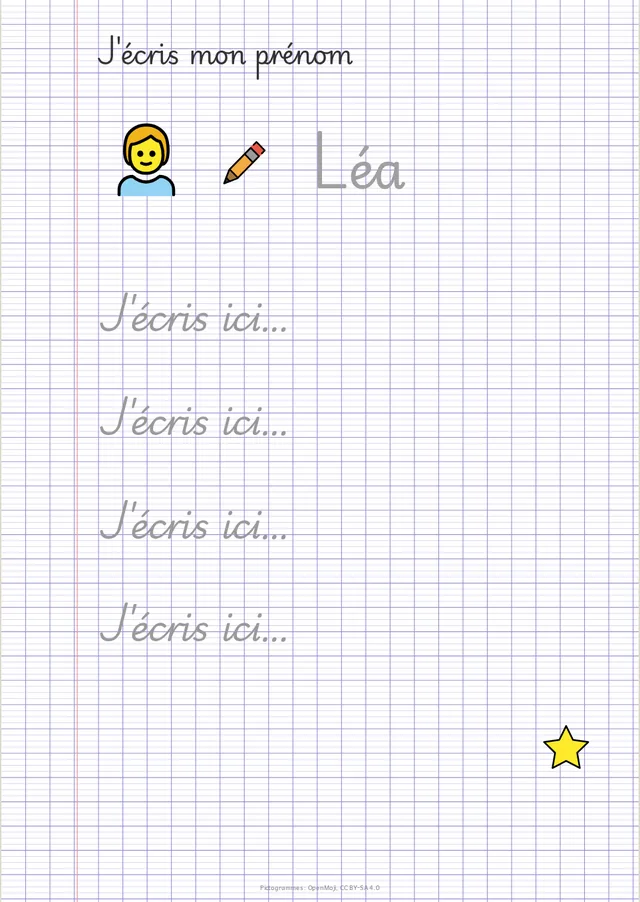
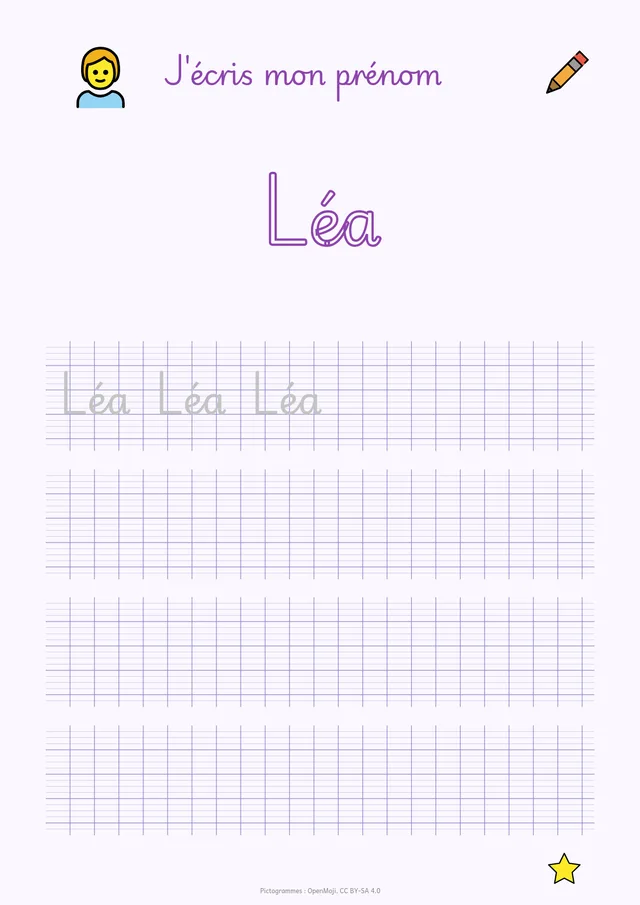
docs: help, what's new 0.8, README and site for the new features and examples

Changed region(s): [[0.0, 0.0, 1.0, 1.0]]

diff --git a/ui/src/lib/tips.ts b/ui/src/lib/tips.ts
@@ -15,12 +15,15 @@ export const TIPS: Tip[] = [
   { id: "drop-photo", theme: "Photos", icon: "🖼", title: "Placer une photo", text: "Importez vos photos dans le tiroir Photos, puis glissez-les sur une zone de la page." },
   { id: "crop", theme: "Photos", icon: "✂", title: "Recadrer", text: "Double-cliquez sur une photo, puis faites-la glisser dans son cadre ; la molette zoome. Entrée ou un clic ailleurs valide." },
   { id: "photo-style", theme: "Photos", icon: "🟦", title: "Coins, bordure, ombre", text: "Sélectionnez une photo : la barre flottante arrondit ses coins, ajoute une bordure (pleine, en tirets ou en pointillés) ou une ombre." },
+  { id: "mirror", theme: "Photos", icon: "⇋", title: "Miroir", text: "Le bouton « Miroir » de la barre de la photo la retourne de gauche à droite : un enfant qui regarde vers le texte, par exemple." },
   { id: "blur-faces", theme: "Photos", icon: "◍", title: "Flouter des visages", text: "Sélectionnez une photo, puis « Flouter » : cliquez sur les visages des enfants sans autorisation photo, ou tracez une zone en glissant. Le repérage automatique (un petit modèle d'intelligence artificielle intégré, hors ligne) n'est utilisé qu'avec votre accord, demandé la première fois, et peut être coupé. La photo d'origine n'est plus enregistrée dans le document." },
   { id: "caption", theme: "Photos", icon: "🏷", title: "Légende", text: "Le bouton « Légende » ajoute un texte sous la photo. Sur une photo libre, la légende est groupée avec elle et la suit quand on la déplace." },
   { id: "library", theme: "Photos", icon: "📚", title: "Photothèque", text: "Les photos importées mais pas encore placées restent dans le tiroir Photos. À la réouverture du document, elles reviennent si leurs fichiers sont toujours sur l'ordinateur." },
   { id: "write", theme: "Texte", icon: "✏", title: "Écrire", text: "Double-cliquez dans un texte pour écrire. Échap ou un clic ailleurs termine." },
   { id: "fonts-mix", theme: "Texte", icon: "🔤", title: "Plusieurs polices dans un texte", text: "Pendant l'écriture, sélectionnez un mot et choisissez une police : seul ce mot change. Pratique pour un prénom en cursive et en script." },
   { id: "trace", theme: "Texte", icon: "✍", title: "Lettres à repasser", text: "Tiroir Texte : « À repasser (gris clair) » ou « Lettres creuses », en cursive. Le bouton « A » creux de la barre flottante rend creuses les lettres de n'importe quel texte." },
+  { id: "writing-lines", theme: "Texte", icon: "📝", title: "Lignes d'écriture", text: "Tiroir Texte > « Lignes d'écriture » : un cadre Seyès, à lignes ou à petits carreaux, pour écrire à la main. Le réglage « Cadre » d'un texte en ajoute aussi sous un modèle à repasser." },
+  { id: "styles", theme: "Texte", icon: "🅰", title: "Styles de texte", text: "Le bouton « Style » de la barre d'écriture donne à un texte l'allure Titre, Consigne, Texte ou Prénom. Modifiez un texte, puis « Mettre à jour » : tous les textes de ce style changent avec lui. « Nouveau style… » garde l'allure d'un texte pour la réutiliser." },
   { id: "valign", theme: "Texte", icon: "↕", title: "En haut, au milieu, en bas", text: "Le menu d'alignement de la barre flottante place aussi le texte en haut, au milieu ou en bas de son cadre." },
   { id: "label", theme: "Texte", icon: "🪧", title: "Étiquettes", text: "Le bouton « Cadre » donne au texte un fond, une bordure, des coins arrondis, ou une image de fond." },
   { id: "system-fonts", theme: "Texte", icon: "💻", title: "Polices de l'ordinateur", text: "Le choix de police propose aussi les polices installées sur l'ordinateur, avec une recherche." },
@@ -31,14 +34,20 @@ export const TIPS: Tip[] = [
   { id: "lock", theme: "Mise en page", icon: "🔒", title: "Verrouiller", text: "Un élément verrouillé (clic droit ou Réglages) ne bouge plus par mégarde." },
   { id: "table", theme: "Mise en page", icon: "▦", title: "Tableaux", text: "Tiroir Texte > « Ajouter un tableau ». Double-cliquez dans une case pour écrire ; la barre sous la case ajoute ou retire des lignes et des colonnes, fusionne des cases et y met un picto ou une photo." },
   { id: "cut-marks", theme: "Mise en page", icon: "✂", title: "Repères de découpe", text: "Sélectionnez une ou plusieurs étiquettes, puis « Découpe » dans la barre flottante : traits aux coins ou pointillés avec des ciseaux, autour de chaque bloc. « Aucun repère » les retire." },
+  { id: "repeat", theme: "Mise en page", icon: "⊞", title: "Répéter un bloc", text: "Sélectionnez une étiquette ou une carte, puis « Répéter » : choisissez les colonnes et les lignes, ou « Remplir la page ». Chaque exemplaire garde ses zones à remplir avec la classe." },
   { id: "frieze", theme: "Mise en page", icon: "🌸", title: "Frise autour d'un bloc", text: "Choisissez des images dans Décors, sélectionnez une photo ou un texte, puis « Frise » : les images l'entourent." },
   { id: "templates", theme: "Pages et modèles", icon: "▦", title: "Partir d'un modèle", text: "Le tiroir Modèles ajoute une page toute prête : grille de photos, récit, étiquettes, affiche." },
   { id: "save-template", theme: "Pages et modèles", icon: "💾", title: "Vos propres modèles", text: "Bouton « Modèle » en haut, puis « Enregistrer comme modèle » : la mise en page devient un modèle à réutiliser ou à partager. Les photos et les textes écrits ne sont pas gardés." },
   { id: "background", theme: "Pages et modèles", icon: "📒", title: "Fond de page", text: "Le bouton « Fond » de la bande des pages donne une couleur, des lignes Seyès, des petits carreaux ou du papier kraft." },
   { id: "landscape", theme: "Pages et modèles", icon: "🔄", title: "Paysage", text: "Le bouton « Paysage » de la bande des pages tourne la page courante." },
+  { id: "formats", theme: "Pages et modèles", icon: "📐", title: "A5, A4, A3", text: "Le choix du format, dans la bande des pages, agrandit ou réduit la page avec son contenu. Une affiche A3 s'imprime aussi en deux feuilles A4 à coller (Imprimer / Exporter)." },
+  { id: "spread", theme: "Pages et modèles", icon: "📖", title: "Pages en vis-à-vis", text: "« Vis-à-vis » montre les pages deux par deux, comme un cahier ouvert. Pour des cartes recto-verso, « Imprimer en recto-verso » place chaque verso derrière son recto." },
   { id: "class", theme: "Classe", icon: "🧒", title: "Votre classe", text: "« Ma classe » sur l'accueil (ou « Modifier la classe… » dans le tiroir Classe) : collez la liste des prénoms, puis réglez chaque élève sur sa ligne. « Ajouter les photos… » les prend toutes d'un coup, chacune pour l'enfant dont elle porte le prénom (Léa.jpg). La classe reste sur l'ordinateur, dans Documents/Cahutin/Classes." },
   { id: "class-generate", theme: "Classe", icon: "✨", title: "Une page pour chaque élève", text: "Sur une page qui attend des prénoms (modèles Étiquettes, ou le bouton « Prénom » pendant l'écriture), le bandeau bleu propose de la remplir avec votre classe. Une étiquette reçoit le même enfant dans toutes ses écritures." },
   { id: "class-consent", theme: "Classe", icon: "🦊", title: "Sans autorisation photo", text: "Une photo d'élève n'est utilisée que si la case d'autorisation est cochée. Sinon, c'est son symbole qui va dans la zone photo : donnez un symbole à chaque enfant." },
+  { id: "class-fields", theme: "Classe", icon: "🎂", title: "Âge, anniversaire, groupe", text: "Pendant l'écriture, le ▾ à côté de « Prénom » insère {nom}, {groupe}, {âge} ou {anniversaire}, remplis pour chaque élève. Les dates de naissance se saisissent sur la page « Ma classe »." },
+  { id: "class-templates", theme: "Classe", icon: "🃏", title: "Modèles pour la classe", text: "Partir d'un modèle > « Pour la classe » : memory et loto des prénoms, lettres mobiles, J'écris mon prénom, tableau des présences, affiche des anniversaires. Remplissez-les d'un clic avec votre classe." },
+  { id: "class-import", theme: "Classe", icon: "📄", title: "Importer une liste", text: "Sur la page « Ma classe », collez un tableau depuis un tableur, ou « Ouvrir un fichier… » pour un export ONDE (.csv) : prénom, nom, date de naissance, niveau et groupe sont reconnus." },
   { id: "import", theme: "Fichiers", icon: "📥", title: "Reprendre une ancienne fiche", text: "Fichier > Importer reprend une fiche Word, PDF ou Publisher (LibreOffice doit être installé) ou les pages d'un autre carnet." },
   { id: "odg", theme: "Fichiers", icon: "📤", title: "Exporter pour LibreOffice", text: "« Imprimer / Exporter » crée un fichier LibreOffice Draw où chaque texte et chaque photo restent modifiables. Les polices voyagent avec le fichier, sauf celles marquées « ⚠ export »." },
   { id: "undo", theme: "Fichiers", icon: "↶", title: "Revenir en arrière", text: "Ctrl+Z annule la dernière action, Ctrl+Y la rétablit." },

diff --git a/site/index.html b/site/index.html
@@ -62,25 +62,34 @@
 <main>
 <section aria-labelledby="exemples">
   <h2 id="exemples">Des exemples à modifier</h2>
-  <p class="intro">Cinq exemples sont fournis avec Cahutin. On en ouvre un depuis l'écran d'accueil, on remplace les photos et les textes, et on imprime. Les zones en pointillés attendent vos photos.</p>
+  <p class="intro">Onze exemples sont fournis avec Cahutin. On en ouvre un depuis l'écran d'accueil, on remplace les photos et les textes, et on imprime. Les zones en pointillés attendent vos photos.</p>
   <ul class="exemples">
     <li><img src="img/page-ferme.webp" width="640" height="902" loading="lazy" alt="Page « Notre sortie à la ferme » sur papier kraft : frise d'animaux, deux photos à déposer avec leur légende, une bulle de parole et une chèvre."><b>Sortie à la ferme</b><span>Frise d'animaux, photos légendées, bulle de parole.</span></li>
-    <li><img src="img/page-anniversaire.webp" width="640" height="902" loading="lazy" alt="Page « Joyeux anniversaire » : ballons et cadeaux en frise, gâteau entouré d'étoiles, prénom à écrire."><b>Joyeux anniversaire</b><span>Frises en haut et en bas, prénom en grand.</span></li>
+    <li><img src="img/page-anniversaire.webp" width="640" height="905" loading="lazy" alt="Page « Joyeux anniversaire » : ballons et cadeaux en frise, gâteau entouré d'étoiles, prénom et âge de l'enfant à remplir."><b>Joyeux anniversaire</b><span>Prénom et âge remplis avec la classe.</span></li>
     <li><img src="img/page-meteo.webp" width="640" height="902" loading="lazy" alt="Page « La météo de la semaine » sur petits carreaux : cinq jours avec soleil, nuage, pluie, neige et arc-en-ciel, et une flèche « Aujourd'hui »."><b>La météo de la semaine</b><span>Petits carreaux, une colonne par jour.</span></li>
-    <li><img src="img/page-prenom.webp" width="640" height="902" loading="lazy" alt="Page « J'écris mon prénom » sur papier Seyès : le prénom Léa en cursive à repasser, puis des lignes pour écrire."><b>J'écris mon prénom</b><span>Seyès, modèle en cursive à repasser.</span></li>
-    <li><img src="img/page-saisons.webp" width="640" height="902" loading="lazy" alt="Page « Les saisons » dans un cadre vert : printemps, été, automne et hiver, chacun avec une image et une ligne à compléter."><b>Les saisons</b><span>Quatre cases, une image par saison.</span></li>
+    <li><img src="img/page-prenom.webp" width="640" height="905" loading="lazy" alt="Page « J'écris mon prénom » : le prénom Léa en lettres creuses, puis des lignes Seyès, la première avec le prénom à repasser."><b>J'écris mon prénom</b><span>Lettres creuses, lignes Seyès à repasser.</span></li>
+    <li><img src="img/page-saisons.webp" width="640" height="905" loading="lazy" alt="Page « Les saisons » dans un cadre vert : printemps, été, automne et hiver, chacun avec une image et des lignes pour écrire."><b>Les saisons</b><span>Quatre cases, une image et des lignes par saison.</span></li>
+    <li><img src="img/page-emotions.webp" width="640" height="905" loading="lazy" alt="Page « Le loto des émotions » : douze cartes à découper, chacune avec un visage et son émotion."><b>Le loto des émotions</b><span>Douze cartes à découper.</span></li>
+    <li><img src="img/page-jours.webp" width="640" height="905" loading="lazy" alt="Page « J'écris les jours » : les jours de la semaine en cursive gris clair, à repasser sur des lignes Seyès."><b>J'écris les jours</b><span>Cursive à repasser sur Seyès.</span></li>
+    <li><img src="img/page-regles.webp" width="640" height="905" loading="lazy" alt="Affiche A3 « Les règles de la classe » : six règles, chacune avec son pictogramme."><b>Les règles de la classe</b><span>Une affiche A3, ou deux feuilles A4.</span></li>
+    <li><img src="img/page-sens.webp" width="640" height="905" loading="lazy" alt="Page « Mes cinq sens » : œil, oreille, nez, bouche et main, chacun avec son verbe et des lignes pour écrire."><b>Mes cinq sens</b><span>Pictogrammes et lignes d'écriture.</span></li>
+    <li><img src="img/page-porte-manteaux.webp" width="640" height="905" loading="lazy" alt="Planche d'étiquettes de porte-manteau : huit étiquettes colorées, chacune avec une photo et le prénom en capitales et en cursive à remplir."><b>Étiquettes de porte-manteau</b><span>Remplies d'un clic avec la classe.</span></li>
   </ul>
+  <figure class="colle petite">
+    <img src="img/page-semaine.webp" width="902" height="638" loading="lazy" alt="Page en paysage « Notre semaine » : un emploi du temps en tableau, les jours en couleur, un pictogramme par activité, l'accueil, les rituels, la récréation et le repas sur toute la semaine.">
+    <figcaption>Notre semaine : un emploi du temps en tableau, avec les pictogrammes des rituels.</figcaption>
+  </figure>
 </section>
 
 <section aria-labelledby="faire">
   <h2 id="faire">Ce qu'on peut faire</h2>
   <ul class="cartes">
-    <li><span class="pastille" aria-hidden="true">📐</span><h3>Partir d'un modèle</h3>Grille de photos, récit, page à compléter, étiquettes de prénoms, affiche en paysage… ou vos propres modèles, à partager entre collègues.</li>
-    <li><span class="pastille" aria-hidden="true">🧒</span><h3>Remplir avec sa classe</h3>On colle la liste des prénoms une fois. Cahutin remplit une planche d'étiquettes, un enfant par étiquette, en capitales, en script et en cursive, ou fait une page par enfant.</li>
+    <li><span class="pastille" aria-hidden="true">📐</span><h3>Partir d'un modèle</h3>Grille de photos, récit, étiquettes, affiche, et des modèles pour la classe : memory et loto des prénoms, lettres mobiles, tableau des présences, affiche des anniversaires. Ou vos propres modèles, à partager entre collègues.</li>
+    <li><span class="pastille" aria-hidden="true">🧒</span><h3>Remplir avec sa classe</h3>On colle la liste des prénoms une fois, ou on l'importe d'un tableur ou d'ONDE. Cahutin remplit ensuite une planche d'étiquettes (prénom en capitales, en script et en cursive), une page par enfant avec son âge, ou l'affiche des anniversaires.</li>
     <li><span class="pastille" aria-hidden="true">📷</span><h3>Poser ses photos</h3>On importe un dossier entier, on glisse chaque photo dans sa case, on la recadre d'un double-clic. Pour un enfant sans autorisation photo, on floute son visage d'un clic.</li>
-    <li><span class="pastille" aria-hidden="true">✏</span><h3>Écrire avec des polices d'école</h3>Cursive (Playwrite FR Moderne), écriture lisible pour les débutants (Andika), police pour les élèves dyslexiques (OpenDyslexic), lettres à repasser.</li>
-    <li><span class="pastille" aria-hidden="true">🎨</span><h3>Décorer et organiser</h3>Plus de 2 000 images à chercher en français, cadres, frises, fonds Seyès ou kraft. Des tableaux pour l'emploi du temps ou le loto, des repères de découpe.</li>
-    <li><span class="pastille" aria-hidden="true">🖨</span><h3>Imprimer ou partager</h3>Impression, PDF, ou fichier pour LibreOffice où tout reste modifiable. On peut aussi reprendre une fiche Word ou PDF existante.</li>
+    <li><span class="pastille" aria-hidden="true">✏</span><h3>Écrire avec des polices d'école</h3>Cursive (Playwrite FR Moderne), écriture lisible pour les débutants (Andika), police pour les élèves dyslexiques (OpenDyslexic). Lettres à repasser, lignes Seyès dans un cadre, styles Titre, Consigne, Prénom.</li>
+    <li><span class="pastille" aria-hidden="true">🎨</span><h3>Décorer et organiser</h3>Plus de 2 000 images à chercher en français, dont les rituels, le matériel et les émotions ; cadres, frises, fonds Seyès ou kraft. Des tableaux, un bloc répété sur toute la page, des repères de découpe.</li>
+    <li><span class="pastille" aria-hidden="true">🖨</span><h3>Imprimer ou partager</h3>A5, A4 ou A3, une affiche A3 sur deux A4, des cartes en recto-verso ; PDF, ou fichier pour LibreOffice où tout reste modifiable. On peut aussi reprendre une fiche Word ou PDF existante.</li>
   </ul>
   <figure class="colle petite">
     <img src="img/app-decors.webp" width="1600" height="1029" loading="lazy" alt="Le panneau Décors ouvert à côté de la page : recherche d'images, catégories, cadres et frises.">

diff --git a/ui/src/lib/whatsNew.ts b/ui/src/lib/whatsNew.ts
@@ -18,6 +18,36 @@ export interface Release {
 /** De la plus récente à la plus ancienne. */
 export const RELEASES: Release[] = [
   {
+    version: "0.8",
+    items: [
+      {
+        title: "Des modèles pour la classe",
+        text: "« Partir d'un modèle » > « Pour la classe » : memory et loto des prénoms, lettres mobiles, J'écris mon prénom, tableau des présences, affiche des anniversaires. Remplissez-les d'un clic avec votre classe.",
+        image: "/nouveautes/0.8/modeles-classe.webp",
+      },
+      {
+        title: "Lignes d'écriture et styles de texte",
+        text: "Tiroir Texte : des lignes Seyès, simples ou à petits carreaux, pour écrire sous un modèle à repasser. Le bouton « Style » donne l'allure Titre, Consigne ou Prénom, et la change partout d'un coup.",
+        image: "/nouveautes/0.8/lignes.webp",
+      },
+      {
+        title: "Répéter un bloc, formats A5 et A3",
+        text: "Sélectionnez une étiquette, puis « Répéter » : la page se remplit d'exemplaires prêts pour la classe. La page passe en A5 ou A3 avec son contenu, et une affiche A3 s'imprime sur deux A4.",
+        image: "/nouveautes/0.8/repeter.webp",
+      },
+      {
+        title: "Votre classe, plus complète",
+        text: "Dates de naissance, champs {âge} et {anniversaire}, et la liste importée d'un tableur ou d'un export ONDE.",
+        image: "/nouveautes/0.8/classe.webp",
+      },
+      {
+        title: "Onze exemples",
+        text: "Emploi du temps, loto des émotions, règles de la classe en A3, cinq sens, porte-manteaux : des pages prêtes à modifier, depuis l'accueil.",
+        image: "/nouveautes/0.8/exemples.webp",
+      },
+    ],
+  },
+  {
     version: "0.7",
     items: [
       {

diff --git a/site/style.css b/site/style.css
@@ -156,7 +156,7 @@ footer p { margin-bottom: calc(2 * var(--u)); }
   .barre .liens { overflow-x: auto; margin-left: 0; }
   .barre .liens a { padding: 6px 8px; font-size: 15px; }
   .marque { font-size: 24px; }
-  .exemples { grid-template-columns: repeat(5, 62vw); overflow-x: auto; scroll-snap-type: x mandatory; padding: 12px 4px 16px; }
+  .exemples { grid-template-columns: none; grid-auto-flow: column; grid-auto-columns: 62vw; overflow-x: auto; scroll-snap-type: x mandatory; padding: 12px 4px 16px; }
   .exemples li { scroll-snap-align: start; }
   .deux { grid-template-columns: 1fr; gap: 0; }
 }
@@ -185,3 +185,4 @@ body.page-accueil {
   background-position: 0 0, 0 0, 0 0;
 }
 .page-accueil .exemples li { text-align: center; }
+.colle figcaption { text-align: center; color: var(--encre-douce); font-size: 16px; margin-top: var(--u); transform: rotate(-1deg); }

diff --git a/crates/carnet-core/src/examples.rs b/crates/carnet-core/src/examples.rs
@@ -166,7 +166,13 @@ fn birthday() -> Page {
         picto("2B50", 148.0, 70.0, 22.0),
         picto("2B50", 52.0, 118.0, 14.0),
         picto("2B50", 144.0, 118.0, 14.0),
-        text_zone(frame(35.0, 142.0, 140.0, 20.0), "Prénom", "Atkinson Hyperlegible", 28.0),
+        {
+            let mut name = text_zone(frame(35.0, 142.0, 140.0, 20.0), "Prénom", "Atkinson Hyperlegible", 28.0);
+            if let ElementKind::Text(t) = &mut name.kind {
+                t.style.align = Align::Center;
+            }
+            name
+        },
     ]));
     // {âge} : rempli avec la classe (« a fêté ses 4 ans »), comme le prénom.
     els.push(text(frame(35.0, 166.0, 140.0, 14.0), "a fêté ses {âge} en classe !", "Atkinson Hyperlegible", 16.0, "#444444", Align::Center));

diff --git a/README.md b/README.md
@@ -41,20 +41,20 @@ Au premier lancement, Cahutin demande s'il doit vous prévenir quand une nouvell
 
 ## Ce que Cahutin sait faire
 
-- **Pages** A4 en portrait ou en paysage, plusieurs pages par document.
-- **Modèles** fournis (Grille de photos, Récit, Page à compléter, Étiquettes, Étiquettes photo, Photos et textes, Photos légendées, Affiche paysage) et modèles personnels (« Partir d'un modèle » > « Créer un modèle ») à partager entre collègues.
-- **Exemples** à découvrir depuis l'écran d'accueil : Sortie à la ferme, Joyeux anniversaire, La météo de la semaine, J'écris mon prénom, Les saisons.
-- **Photos** : import d'un dossier entier, photothèque du document, recadrage, coins arrondis, bordure, ombre, légende, flou des visages (repérés sur l'ordinateur ou tracés à la main) pour les enfants sans autorisation photo.
-- **Textes** : gras, italique, souligné, couleurs, alignement ; polices lisibles pour l'école fournies (Andika, Atkinson Hyperlegible, OpenDyslexic, Playwrite FR Moderne pour la cursive), polices ajoutées et polices installées sur l'ordinateur.
-- **Classe** : liste des élèves (photo avec autorisation, symbole, niveau, groupe), gardée sur l'ordinateur, et génération d'une page par élève ou d'une planche d'étiquettes remplie.
+- **Pages** A5, A4 ou A3, en portrait ou en paysage (le contenu suit le format), plusieurs pages par document, vue en vis-à-vis comme un cahier ouvert.
+- **Modèles** fournis (Grille de photos, Récit, Page à compléter, Étiquettes, Étiquettes photo, Étiquettes 3 écritures, Photos et textes, Photos légendées, Affiche paysage), modèles pour la classe (Memory et Loto des prénoms, Lettres mobiles, J'écris mon prénom, Tableau des présences, Affiche des anniversaires) et modèles personnels (« Partir d'un modèle » > « Créer un modèle ») à partager entre collègues.
+- **Exemples** à découvrir depuis l'écran d'accueil : Sortie à la ferme, Joyeux anniversaire, La météo de la semaine, J'écris mon prénom, Les saisons, Notre semaine (emploi du temps), Le loto des émotions, J'écris les jours, Les règles de la classe (A3), Mes cinq sens, Étiquettes de porte-manteau.
+- **Photos** : import d'un dossier entier, photothèque du document, recadrage, miroir, coins arrondis, bordure, ombre, légende, flou des visages (repérés sur l'ordinateur ou tracés à la main) pour les enfants sans autorisation photo.
+- **Textes** : gras, italique, souligné, couleurs, alignement ; polices lisibles pour l'école fournies (Andika, Atkinson Hyperlegible, OpenDyslexic, Playwrite FR Moderne pour la cursive), polices ajoutées et polices installées sur l'ordinateur ; lettres à repasser ou creuses, lignes d'écriture dans un cadre (Seyès, lignes, petits carreaux), styles de texte nommés (Titre, Consigne, Prénom, les vôtres) qui se modifient d'un coup.
+- **Classe** : liste des élèves (photo avec autorisation, symbole, niveau, groupe, date de naissance), collée ou importée d'un tableur ou d'un export ONDE (.csv), gardée sur l'ordinateur. Génération d'une page par élève, d'une planche d'étiquettes remplie ou d'une affiche pour toute la classe ; champs {prénom}, {nom}, {groupe}, {âge}, {anniversaire}, lettres mobiles.
 - **Tableaux** : cases avec texte, pictogramme ou photo, lignes et colonnes à ajouter ou retirer, cases fusionnées, traits réglables.
 - **Formes** : rectangle, ellipse, trait, flèche, étoile, cœur, bulle de parole, nuage.
-- **Décors** : plus de 2 000 images OpenMoji avec recherche en français, cadres de page et frises.
+- **Décors** : plus de 2 000 images OpenMoji avec recherche en français (catégories Rituels, Matériel, Émotions, Corps et soins pour la classe), cadres de page et frises.
 - **Fonds de page** : couleur, Seyès, petits carreaux, lignes, pointillés, papier kraft.
-- **Groupes**, sélection au cadre, alignement, verrouillage, annulation.
+- **Groupes**, sélection au cadre, alignement, répétition d'un bloc en grille, repères de découpe, verrouillage, annulation.
 - **Import** : pages d'un autre carnet, et fiches Word (.docx, .doc), LibreOffice (.odt, .odg), PDF ou Publisher (.pub) reprises en textes, photos et formes modifiables. Pour ces formats, LibreOffice doit être installé sur le poste.
 - **Aide** : visite guidée au premier lancement, astuces par thème et bulles d'aide discrètes (menu Aide).
-- **Sorties** : impression, PDF, et export **ODG** pour LibreOffice Draw, où chaque texte, photo et forme reste modifiable et les polices voyagent avec le fichier.
+- **Sorties** : impression (chaque page sur une feuille de son format, affiche A3 en deux feuilles A4, cartes en recto-verso), PDF, et export **ODG** pour LibreOffice Draw, où chaque texte, photo et forme reste modifiable et les polices voyagent avec le fichier.
 
 ## Confidentialité
 
